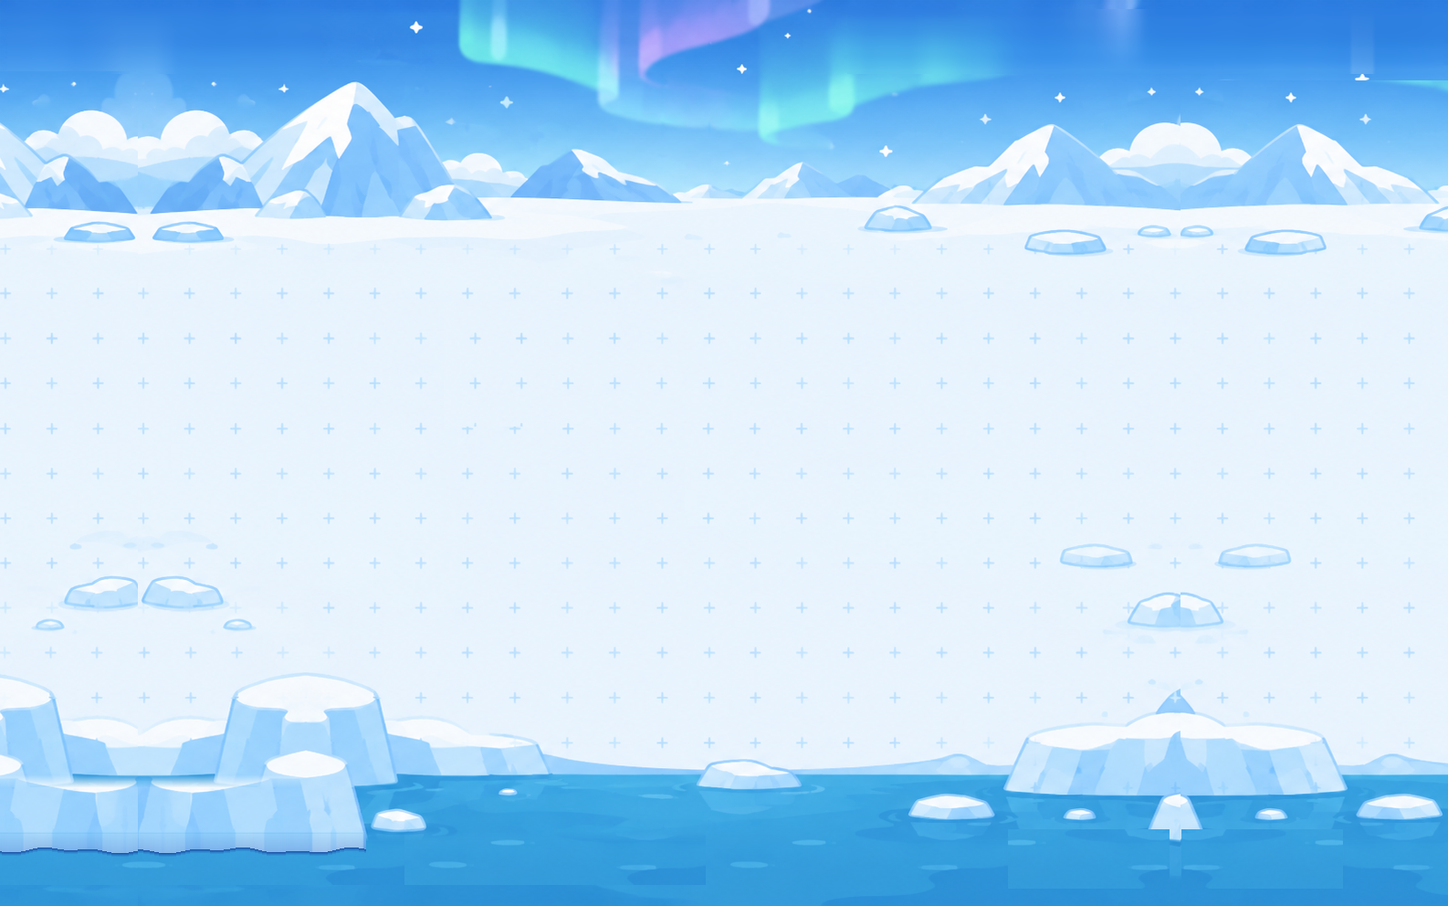
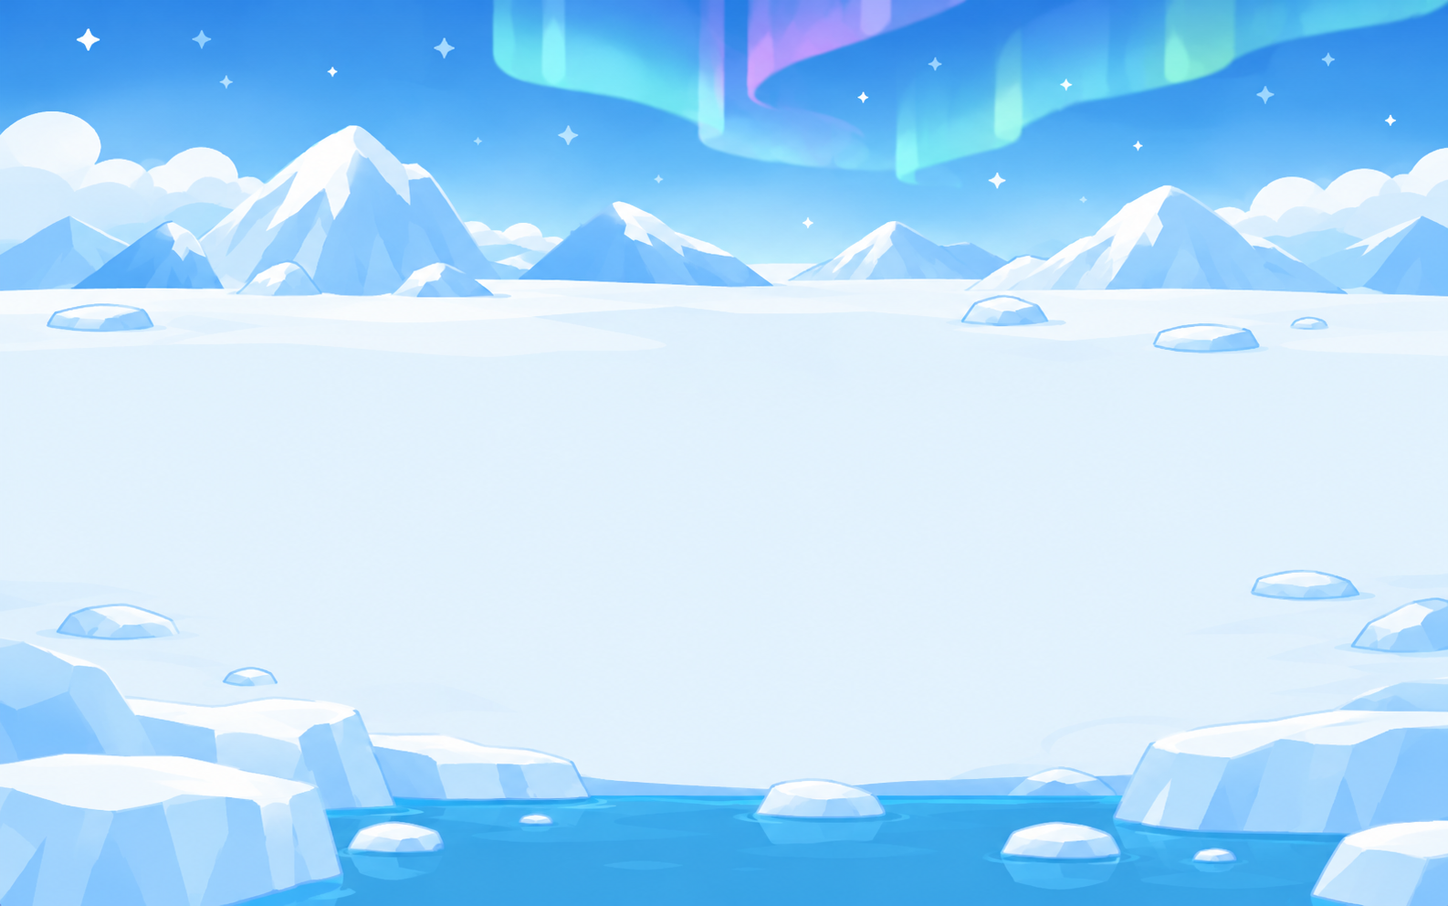
feat(T0.18): resizable side panel, new idle card art, and a snowfield-only grid in simulation
- Drag the handle between the canvas and the right panel to set its width (270-560px).
  Double-click resets it, arrow keys/Home/End adjust it, and the width is remembered.
- Replace the idle card art with the penguin and speech bubble picture and drop the
  "관제 준비 완료!" title; the bubble text becomes the image alt.
- Use the grid-free original for the simulation background and show the realtime dot
  grid only on the flat snowfield through a mask that follows the background's cover fit.

diff --git a/apps/web/src/styles/editor.css b/apps/web/src/styles/editor.css
@@ -19,8 +19,15 @@ button { font: inherit; cursor: pointer; }
 /* 시뮬레이션 모드 배경 (T0.17): 오로라 그림을 창 전체에 비율대로 채운다. 상단 막대는 반투명이라 그림이 비친다 */
 .app.mode-simulation { background: #3B7BE0 url(/bg-sim-aurora.png) center bottom / cover no-repeat; }
 .app.mode-simulation .topbar { background: linear-gradient(180deg, #0B3C8C59, #0B3C8C14); text-shadow: 0 1px 2px #0B2A5C33; }
-/* 그림에 ＋ 격자가 들어 있어 시뮬레이션에서는 캔버스의 점 격자를 끈다 */
+/* 캔버스의 점 격자 대신 아래 눈밭 격자를 쓴다 */
 .app.mode-simulation .canvas { background-color: transparent; background-image: none; }
+/* 시뮬레이션 격자 (T0.18): 실시간과 같은 점 격자를 평평한 눈밭에만 보인다. 하늘, 산, 바다, 얼음 덩어리에는 없다.
+   눈밭 마스크(bg-sim-snow-mask.png)는 배경 그림과 크기가 같고 같은 방식(cover, 아래 가운데)으로 맞춰서 창 크기가 바뀌어도 눈밭을 따라간다.
+   점은 캔버스 왼쪽 위(왼쪽 14 + 장비 목록 112 + 틈 14, 위쪽 막대 64 + 6)에서 시작해 실시간과 같은 자리에 찍힌다 */
+.app.mode-simulation { position: relative; isolation: isolate; }
+.app.mode-simulation::before { content: ""; position: absolute; inset: 0; z-index: -1; pointer-events: none;
+  background-image: radial-gradient(circle, #C4DBF7 1.4px, transparent 1.6px); background-size: 24px 24px; background-position: 140px 70px;
+  -webkit-mask: url(/bg-sim-snow-mask.png) center bottom / cover no-repeat; mask: url(/bg-sim-snow-mask.png) center bottom / cover no-repeat; }
 
 /* top bar */
 .topbar { display: flex; align-items: center; gap: 16px; padding: 0 20px; background: linear-gradient(90deg, var(--sky-900), var(--sky-500)); color: #fff; }
@@ -59,7 +66,14 @@ button { font: inherit; cursor: pointer; }
 .speed button.on { background: #fff; color: var(--sky-700); }
 
 /* middle */
-.work { display: grid; grid-template-columns: 112px 1fr 270px; gap: 14px; padding: 6px 14px 14px; min-height: 0; }
+.work { position: relative; display: grid; grid-template-columns: 112px 1fr 270px; gap: 14px; padding: 6px 14px 14px; min-height: 0; }
+/* 오른쪽 패널 폭 조절 손잡이 (T0.18). 캔버스와 패널 사이 틈(14px)의 가운데에 선다. 폭은 app.tsx가 grid-template-columns로 정한다 */
+.side-resize { position: absolute; top: 6px; bottom: 14px; width: 12px; margin-right: 1px; cursor: ew-resize; touch-action: none; z-index: 20; outline: none; }
+.side-resize::after { content: ""; position: absolute; top: 50%; left: 50%; width: 4px; height: 44px; transform: translate(-50%, -50%); border-radius: 2px; background: #0E3A7A2E; transition: background .15s, height .15s; }
+.side-resize:hover::after, .side-resize:focus-visible::after, .side-resize.dragging::after { height: 72px; background: var(--sky-700); }
+.side-resize:focus-visible::after { box-shadow: 0 0 0 3px rgba(143,220,255,.55); }
+.work.side-dragging { cursor: ew-resize; user-select: none; }
+.work.side-dragging .canvas, .work.side-dragging .inspector { pointer-events: none; }
 /* 좌우 패널은 떠 있는 카드 (T0.17) */
 .palette { background: #FFFFFFEB; border: 1px solid #FFFFFFB3; border-radius: 18px; box-shadow: 0 8px 26px #0E3A7A1F; backdrop-filter: blur(6px); padding: 16px 12px; display: flex; flex-direction: column; gap: 10px; }
 .palette h4 { font-size: 12px; color: var(--navy-60); font-weight: 600; margin-top: 4px; }
@@ -198,8 +212,7 @@ button { font: inherit; cursor: pointer; }
 .inspector-idle { padding: 14px 16px 18px; text-align: center; }
 .inspector-idle .idle-art { border-radius: 14px; overflow: hidden; background: #EAF3FF; }
 .inspector-idle .idle-art img { display: block; width: 100%; height: auto; }
-.inspector-idle .idle-title { margin: 16px 0 8px; font-size: 19px; font-weight: 800; color: var(--navy); }
-.inspector-idle .idle-text { font-size: 12.5px; line-height: 1.6; color: var(--navy-60); }
+.inspector-idle .idle-text { margin-top: 14px; font-size: 12.5px; line-height: 1.6; color: var(--navy-60); }
 .inspector-idle .idle-stats { margin-top: 18px; padding-top: 14px; border-top: 1px solid var(--line); display: grid; gap: 12px; text-align: left; }
 .inspector-idle .idle-stats div { display: flex; align-items: center; justify-content: space-between; font-size: 13px; }
 .inspector-idle .idle-stats dt { color: var(--navy-60); }

diff --git a/apps/web/src/components/side-resize.tsx b/apps/web/src/components/side-resize.tsx
@@ -1,0 +1,102 @@
+// 오른쪽 패널 폭 조절 (T0.18). 캔버스와 패널 사이의 손잡이를 끌면 폭이 바뀌고, 두 번 누르면 처음 폭으로 돌아간다.
+// 정한 폭은 브라우저에 기억해 새로고침해도 그대로다. 화면만의 상태라 Document에는 넣지 않는다.
+
+import { useState } from "react";
+import type { KeyboardEvent, PointerEvent } from "react";
+
+import { browserStorage } from "../mode";
+
+export const SIDE_DEFAULT = 270;
+export const SIDE_MIN = 270;
+export const SIDE_MAX = 560;
+export const SIDE_STORAGE_KEY = "ping9.sideWidth";
+
+type WidthStorage = Pick<Storage, "getItem" | "setItem">;
+
+/** 정할 수 있는 폭 안으로 맞추고 정수로 반올림한다 */
+export function clampSideWidth(width: number): number {
+  return Math.round(Math.min(SIDE_MAX, Math.max(SIDE_MIN, width)));
+}
+
+/** 기억한 폭. 값이 없거나 숫자가 아니거나 읽지 못하면 처음 폭 */
+export function readSideWidth(storage: WidthStorage | undefined): number {
+  try {
+    const saved = storage?.getItem(SIDE_STORAGE_KEY);
+    const width = saved === null || saved === undefined ? Number.NaN : Number(saved);
+    return Number.isFinite(width) ? clampSideWidth(width) : SIDE_DEFAULT;
+  } catch {
+    return SIDE_DEFAULT;
+  }
+}
+
+/** 정한 폭을 기억한다. 저장하지 못해도(사생활 보호 모드, 용량) 폭은 그대로 바뀐다 */
+export function writeSideWidth(storage: WidthStorage | undefined, width: number): void {
+  try {
+    storage?.setItem(SIDE_STORAGE_KEY, String(width));
+  } catch {
+    // 기억하지 못할 뿐이다
+  }
+}
+
+/** 키 하나로 바뀌는 폭. 그 키가 폭 조절 키가 아니면 undefined */
+export function keyedSideWidth(width: number, key: string, shift: boolean): number | undefined {
+  const step = shift ? 40 : 10;
+  switch (key) {
+    case "ArrowLeft": return clampSideWidth(width + step);
+    case "ArrowRight": return clampSideWidth(width - step);
+    case "Home": return SIDE_MAX;
+    case "End": return SIDE_MIN;
+    default: return undefined;
+  }
+}
+
+/** 패널 폭과 그 폭을 바꾸는 손잡이 */
+export function useSideWidth() {
+  const [width, setWidth] = useState(() => readSideWidth(browserStorage()));
+  const [dragging, setDragging] = useState(false);
+
+  const commit = (next: number) => {
+    const value = clampSideWidth(next);
+    setWidth(value);
+    writeSideWidth(browserStorage(), value);
+  };
+
+  const onPointerDown = (event: PointerEvent<HTMLDivElement>) => {
+    if (event.button !== 0) return;
+    event.preventDefault();
+    const handle = event.currentTarget;
+    handle.setPointerCapture(event.pointerId);
+    const startX = event.clientX;
+    const startWidth = width;
+    setDragging(true);
+    // 패널은 오른쪽에 있어 왼쪽으로 끌수록 넓어진다
+    const move = (moveEvent: globalThis.PointerEvent) => setWidth(clampSideWidth(startWidth + startX - moveEvent.clientX));
+    const up = (upEvent: globalThis.PointerEvent) => {
+      handle.removeEventListener("pointermove", move);
+      handle.removeEventListener("pointerup", up);
+      handle.removeEventListener("pointercancel", up);
+      setDragging(false);
+      commit(startWidth + startX - upEvent.clientX);
+    };
+    handle.addEventListener("pointermove", move);
+    handle.addEventListener("pointerup", up);
+    handle.addEventListener("pointercancel", up);
+  };
+
+  const onKeyDown = (event: KeyboardEvent<HTMLDivElement>) => {
+    const next = keyedSideWidth(width, event.key, event.shiftKey);
+    if (next === undefined) return;
+    event.preventDefault();
+    commit(next);
+  };
+
+  const handle = (
+    <div className={`side-resize${dragging ? " dragging" : ""}`} role="separator" aria-orientation="vertical"
+      aria-label="오른쪽 패널 폭 (두 번 누르면 처음 폭)" aria-valuemin={SIDE_MIN} aria-valuemax={SIDE_MAX} aria-valuenow={width}
+      tabIndex={0} title="끌어서 폭 조절 · 두 번 누르면 처음 폭"
+      style={{ right: `${14 + width}px` }}
+      onPointerDown={onPointerDown} onDoubleClick={() => commit(SIDE_DEFAULT)} onKeyDown={onKeyDown} />
+  );
+
+  return { width, dragging, handle };
+}

diff --git a/apps/web/src/components/side-resize.test.ts b/apps/web/src/components/side-resize.test.ts
@@ -1,0 +1,71 @@
+// T0.18: 오른쪽 패널 폭 조절
+import { describe, expect, test } from "vitest";
+
+import { SIDE_DEFAULT, SIDE_MAX, SIDE_MIN, SIDE_STORAGE_KEY, clampSideWidth, keyedSideWidth, readSideWidth, writeSideWidth } from "./side-resize";
+
+function memoryStorage(initial: Record<string, string> = {}) {
+  const values = new Map(Object.entries(initial));
+  return {
+    values,
+    getItem: (key: string) => values.get(key) ?? null,
+    setItem: (key: string, value: string) => void values.set(key, value),
+  };
+}
+
+const broken = {
+  getItem: () => { throw new Error("blocked"); },
+  setItem: () => { throw new Error("quota"); },
+};
+
+describe("clampSideWidth", () => {
+  test("270 ~ 560 안으로 맞추고 정수로", () => {
+    expect([SIDE_DEFAULT, SIDE_MIN, SIDE_MAX]).toEqual([270, 270, 560]);
+    expect(clampSideWidth(100)).toBe(270);
+    expect(clampSideWidth(900)).toBe(560);
+    expect(clampSideWidth(400.6)).toBe(401);
+  });
+});
+
+describe("readSideWidth", () => {
+  test("기억한 값이 없거나 읽지 못하면 처음 폭", () => {
+    expect(readSideWidth(memoryStorage())).toBe(270);
+    expect(readSideWidth(undefined)).toBe(270);
+    expect(readSideWidth(broken)).toBe(270);
+  });
+
+  test("기억한 폭을 읽고, 범위 밖이면 맞춘다", () => {
+    expect(readSideWidth(memoryStorage({ [SIDE_STORAGE_KEY]: "420" }))).toBe(420);
+    expect(readSideWidth(memoryStorage({ [SIDE_STORAGE_KEY]: "9999" }))).toBe(560);
+    expect(readSideWidth(memoryStorage({ [SIDE_STORAGE_KEY]: "0" }))).toBe(270);
+  });
+
+  test("숫자가 아니면 처음 폭", () => {
+    expect(readSideWidth(memoryStorage({ [SIDE_STORAGE_KEY]: "wide" }))).toBe(270);
+    expect(readSideWidth(memoryStorage({ [SIDE_STORAGE_KEY]: "" }))).toBe(270);
+  });
+});
+
+describe("writeSideWidth", () => {
+  test("폭을 기억하고, 저장하지 못해도 오류를 내지 않는다", () => {
+    const storage = memoryStorage();
+    writeSideWidth(storage, 333);
+    expect(storage.values.get(SIDE_STORAGE_KEY)).toBe("333");
+    expect(() => writeSideWidth(broken, 333)).not.toThrow();
+    expect(() => writeSideWidth(undefined, 333)).not.toThrow();
+  });
+});
+
+describe("keyedSideWidth", () => {
+  test("← 넓게, → 좁게. Shift는 40px씩", () => {
+    expect(keyedSideWidth(300, "ArrowLeft", false)).toBe(310);
+    expect(keyedSideWidth(300, "ArrowRight", false)).toBe(290);
+    expect(keyedSideWidth(300, "ArrowLeft", true)).toBe(340);
+    expect(keyedSideWidth(275, "ArrowRight", true)).toBe(270);
+  });
+
+  test("Home은 가장 넓게, End는 가장 좁게, 다른 키는 무시", () => {
+    expect(keyedSideWidth(300, "Home", false)).toBe(560);
+    expect(keyedSideWidth(300, "End", false)).toBe(270);
+    expect(keyedSideWidth(300, "Enter", false)).toBeUndefined();
+  });
+});

diff --git a/apps/web/src/app.tsx b/apps/web/src/app.tsx
@@ -12,6 +12,7 @@ import { isRemoveKey, removeKeyAction } from "./components/canvas-keys";
 import { Inspector } from "./components/inspector";
 import { LinkInspector } from "./components/link-inspector";
 import { Palette } from "./components/palette";
+import { useSideWidth } from "./components/side-resize";
 import type { Replay } from "./components/packet-layer";
 import { TerminalWindow } from "./components/terminal-window";
 import { focusCanvasNode, focusTerminalInput } from "./focus";
@@ -64,6 +65,8 @@ export function App() {
   const [importError, setImportError] = useState<ErrorInfo | null>(null);
   const [cable, setCable] = useState<CableState>(CABLE_OFF);
   const [dragKind, setDragKind] = useState<DeviceKind | null>(null);
+  // 오른쪽 패널 폭. 손잡이로 끌어 바꾼다 (T0.18)
+  const side = useSideWidth();
   // 목록에서 끌어 온 새 장비를 왼쪽 장비 목록에 다시 놓으면 취소된다 (T0.12). 캔버스가 목록의 자리를 보고 상태를 알려 준다
   const paletteRef = useRef<HTMLElement>(null);
   const [dragCancel, setDragCancel] = useState<DragCancelState>("idle");
@@ -456,7 +459,8 @@ export function App() {
     <div className={`app mode-${mode}`}>
       <TopBar name={topologyName} onRename={setTopologyName} onExport={exportTopology} onImport={(file) => void importTopology(file)} mode={mode} onModeChange={changeMode}
         sim={mode === "simulation" ? { clock: clockState, onPause: clock.pause, onResume: clock.resume, onSpeed: clock.setSpeed } : undefined} />
-      <main className="work">
+      <main className={`work${side.dragging ? " side-dragging" : ""}`} style={{ gridTemplateColumns: `112px minmax(0, 1fr) ${side.width}px` }}>
+        {side.handle}
         <Palette deviceCount={document.devices.length} linkCount={document.links.length} cableActive={cable.active}
           onConnect={() => { setCable(cable.active ? CABLE_OFF : CABLE_READY); setConnectionMessage(null); setActionError(null); }}
           onDeviceDragStart={kind => { setDragKind(kind); setCable(CABLE_OFF); setConnectionMessage(null); }}

diff --git a/apps/web/src/components/inspector.tsx b/apps/web/src/components/inspector.tsx
@@ -54,10 +54,9 @@ export function Inspector({
 
   if (device === undefined || view === undefined) {
     return (
-      // 아무것도 고르지 않았을 때의 카드 (T0.17)
+      // 아무것도 고르지 않았을 때의 카드 (T0.17). 그림의 말풍선이 제목 역할을 하고, 글자가 그림 안에 있어 alt로 같은 문장을 준다 (T0.18)
       <aside className="inspector inspector-idle">
-        <div className="idle-art"><img src={panelPenguin} alt="" /></div>
-        <h3 className="idle-title">관제 준비 완료!</h3>
+        <div className="idle-art"><img src={panelPenguin} alt="네트워크 탐험을 시작해 볼까요?" /></div>
         <p className="idle-text">장비를 선택하면 네트워크 상태와<br />상세 정보를 확인할 수 있어요.</p>
         <dl className="idle-stats">
           <div><dt>연결된 장비</dt><dd><b>{document.devices.length}</b> / {LIMITS.maxDevices}</dd></div>

diff --git a/apps/web/src/components/inspector.test.tsx b/apps/web/src/components/inspector.test.tsx
@@ -99,12 +99,14 @@ describe("PC", () => {
   });
 });
 
-describe("선택이 없을 때 (T0.17 빈 카드)", () => {
+describe("선택이 없을 때 (T0.17 빈 카드, T0.18 그림)", () => {
   test.each([null, "nope"])("deviceId가 %j면 빈 카드만 나온다", (deviceId) => {
     const html = render(deviceId);
 
     expect(html).toContain('class="inspector inspector-idle"');
-    expect(html).toContain("관제 준비 완료!");
+    // 제목은 그림의 말풍선이 대신한다 (T0.18)
+    expect(html).toContain('alt="네트워크 탐험을 시작해 볼까요?"');
+    expect(html).not.toContain("관제 준비 완료!");
     expect(html).toContain("장비를 선택하면 네트워크 상태와");
     expect(html).not.toContain("터미널 열기");
   });

diff --git a/docs/task-logs/T0.18-panel-resize-and-sim-grid.md b/docs/task-logs/T0.18-panel-resize-and-sim-grid.md
@@ -1,0 +1,99 @@
+# T0.18 오른쪽 패널 폭 조절, 빈 카드 그림 교체, 시뮬레이션 배경과 눈밭 격자
+
+| 항목 | 내용 |
+|---|---|
+| Task | `T0.18` (계획에 없는 새 ID. T0.17 화면의 후속) |
+| Story | 계획 밖 |
+| 영역 | 화면 |
+| 담당 | yysong1249 |
+| 기간 | 2026-11-12 |
+| 브랜치 / PR | `feat/T0.18-panel-resize-and-sim-grid` / [PR #59](https://github.com/TL-cg11/PING9/pull/59) (`main` 위) |
+| 상태 | 구현·검증 완료, 팀원 검토 대기 |
+
+## 1. 목표와 완료 기준
+
+디자인 사본(5180)에서 사용자가 정한 화면을 저장소에 옮긴다. 시안은 `시안-패널그림교체.png`(B안), `시안-시뮬레이션배경-격자.png`(B안).
+
+- [x] 캔버스와 오른쪽 패널 사이의 손잡이를 끌어 패널 폭을 270 ~ 560px로 바꾼다. 캔버스는 그만큼 줄고 늘어난다
+- [x] 손잡이를 두 번 누르면 처음 폭(270px). 키보드로도 바꾼다 (←/→ 10px, Shift 40px, Home 가장 넓게, End 가장 좁게)
+- [x] 정한 폭은 브라우저에 기억해 새로고침해도 그대로. 저장하지 못해도 폭은 바뀐다
+- [x] 빈 카드 그림을 펭귄과 말풍선("네트워크 탐험을 시작해 볼까요?") 그림으로 바꾸고 "관제 준비 완료!" 제목을 뺀다. 말풍선 문장은 그림의 `alt`로 준다
+- [x] 시뮬레이션 배경을 ＋ 격자가 없는 원본 그림으로 바꾼다
+- [x] 시뮬레이션에서도 실시간과 같은 점 격자(24px 간격, 점 1.4px, `#C4DBF7`)를 쓰되, 평평한 눈밭에만 보인다. 하늘, 산, 바다, 얼음 덩어리에는 없다
+- [x] 실시간 모드의 배경과 격자는 그대로
+- [x] 공통 완료 조건: lint, 타입 검사, 단위 테스트, 빌드 (4절). 리뷰는 PR에서
+
+## 2. 진행 방식
+
+1. 5180에서 시안을 고쳐 가며 사용자가 정했다 (2026-11-12).
+2. 빈 카드 그림은 사용자가 준 원본(1536×1024)에서 펭귄과 말풍선이 들어가는 사각형(가로 150 ~ 1500, 세로 110 ~ 990)을 줄이지 않고 잘랐다(1350×880). 처음에 720px로 줄였더니 넓힌 패널과 레티나 화면에서 흐려 보여서 원래 크기로 바꿨다.
+3. 눈밭 마스크는 배경 그림과 같은 크기(1586×992)의 흑백 알파 그림이다. 색(채도)으로 바다를 자동 판별해 봤지만 눈밭 위 얼음의 그림자까지 바다로 잡혀 경계가 들쭉날쭉했다. 그래서 지평선과 얼음 덩어리·바다 윗선을 따라 다각형을 손으로 정하고 10px 흐리게 했다.
+4. 격자는 `.app`의 `::before` 층에 그리고 마스크를 배경과 같은 방식(`cover`, 아래 가운데)으로 맞췄다. 그래서 창 크기가 바뀌어도 마스크가 그림의 눈밭 자리를 따라간다.
+5. 패널 폭은 `app.tsx`가 `.work`의 `grid-template-columns`로 정한다. 손잡이는 `.work` 안에 절대 위치로 두어 패널 컴포넌트는 건드리지 않았다.
+6. `pnpm check`를 돌리고, `vite preview`로 빌드를 띄워 헤드리스 Chrome으로 확인했다 (4절).
+
+### 주요 결정
+
+| 결정 | 이유 | 버린 대안 |
+|---|---|---|
+| 격자를 눈밭에만 | 하늘과 바다 위의 점이 그림을 해친다는 사용자 결정 | 격자 없음(A안), 캔버스 전체에 격자 |
+| 마스크 경계는 손으로 정한 다각형 | 색 판별은 얼음 그림자를 바다로 잡는다 | 채도 기준 자동 판별 |
+| 격자를 캔버스가 아니라 `.app` 층에 | 마스크를 배경 그림과 같은 기준(창 전체)으로 맞춰야 한다. 점의 시작은 캔버스 왼쪽 위(140, 70)로 맞춰 실시간과 같은 자리에 찍힌다 | 캔버스 배경에 격자 (마스크가 그림과 어긋남) |
+| 폭 범위 270 ~ 560px | 270은 지금 폭. 그보다 넓으면 캔버스가 너무 좁아진다 | 제한 없음 |
+| 빈 카드 제목을 뺀다 | 말풍선이 이미 인사를 해서 인사가 두 번 나온다 (시안 B안) | 제목 유지(A안) |
+
+## 3. 변경 내용
+
+| 파일 | 변경 |
+|---|---|
+| `apps/web/src/components/side-resize.tsx` | 새 파일. 폭 맞추기·읽기·기억하기·키 처리 함수와 `useSideWidth` 훅(손잡이 포함) |
+| `apps/web/src/components/side-resize.test.ts` | 새 파일. 폭 범위, 기억한 값 읽기(없음·범위 밖·숫자 아님·읽기 실패), 기억하기, 키 |
+| `apps/web/src/app.tsx` | 패널 폭을 `.work`의 열 폭으로, 손잡이 붙이기 |
+| `apps/web/src/app.test.tsx` | 손잡이와 처음 폭 270px |
+| `apps/web/src/components/inspector.tsx` | 빈 카드의 제목을 빼고 그림에 `alt` |
+| `apps/web/src/components/inspector.test.tsx` | 빈 카드에 `alt` 문장이 있고 "관제 준비 완료!"가 없음 |
+| `apps/web/src/assets/panel-penguin.png` | 그림 교체 (236×250 → 1350×880, 1.7MB) |
+| `apps/web/public/bg-sim-aurora.png` | ＋ 격자가 없는 원본으로 교체 (1586×992, 1.3MB) |
+| `apps/web/public/bg-sim-snow-mask.png` | 새 파일. 눈밭 마스크 (1586×992, 75KB) |
+| `apps/web/src/styles/editor.css` | 손잡이, 시뮬레이션 눈밭 격자, 빈 카드 제목 스타일 삭제 |
+
+## 4. 결과와 검증
+
+```text
+$ pnpm check
+packages/shared test:       Tests  370 passed (370)
+apps/api test:       Tests  2 passed (2)
+packages/engine test:       Tests  1614 passed (1614)
+apps/web test:       Tests  507 passed (507)
+apps/web build: ✓ built in 147ms
+exit=0
+
+$ pnpm check:secrets
+비밀값 검사 통과: 파일 703개
+```
+
+`vite preview`(빌드 결과)를 헤드리스 Chrome으로 열어 확인했다.
+
+- 1440×860, 1920×1080 두 크기에서 시뮬레이션 격자가 눈밭에만 보이고, 캔버스 왼쪽 위가 (140, 70)으로 점의 시작과 같다.
+- 손잡이가 있고, 빈 카드 그림의 `alt`가 "네트워크 탐험을 시작해 볼까요?", 제목이 없다.
+- 손잡이 끌기(5180에서): 왼쪽으로 150px 끌면 패널 420px, 캔버스 1002 → 852px. 끝까지 끌면 560px에서 멈춤. 새로고침 뒤에도 560px. 두 번 누르면 270px. ← 키 한 번에 280px.
+- 콘솔 오류 없음.
+
+## 5. 추정과 실제
+
+| 추정 (인일) | 실제 (인일) | 차이의 이유 |
+|---|---|---|
+| 없음 (계획에 없는 Task) | 0.5 | 마스크 경계를 자동 판별하다 손으로 정하는 데 시간이 들었다 |
+
+## 6. 계획과 달라진 점
+
+- 계획에 없는 Task다. 화면 디자인 변경이라 팀 확인이 필요하다.
+- 시뮬레이션의 격자를 T0.17에서는 껐는데(그림에 ＋ 격자가 있었음) 이번에 그림을 격자 없는 원본으로 바꾸고 실시간과 같은 점 격자를 눈밭에만 다시 켰다.
+
+## 7. 남은 일과 다음 Task에 전할 것
+
+- 배경 그림을 다시 바꾸면 눈밭 마스크도 새로 만들어야 한다. 마스크는 지금 그림의 눈밭 모양에 맞춘 것이다.
+- 장비 목록 폭(112px)이나 위쪽 막대 높이(64px)를 바꾸면 격자 시작점(`background-position: 140px 70px`)도 같이 고친다.
+- 그림 두 장(빈 카드 1.7MB, 배경 1.3MB)이 PNG라 크다. 화질을 거의 그대로 두고 줄이려면 WebP로 바꾸는 방법이 있다.
+- 배경 원본이 1586px 폭이라 1920px 같은 큰 화면에서는 조금 흐리다. 더 선명하게 하려면 2,000 ~ 2,600px 폭 원본이 필요하다.
+- 이벤트 목록(T1.9)이 오른쪽 패널에 들어가면 같은 폭을 쓴다.

diff --git a/docs/task-logs/README.md b/docs/task-logs/README.md
@@ -96,3 +96,4 @@ Task 하나를 진행할 때마다 이 폴더에 기록 문서를 **새로** 만
 | T0.16 토폴로지 이름 고치기 (계획에 없는 새 ID) | [T0.16-topology-name.md](T0.16-topology-name.md) | 화면 | yysong1249 | 검토 대기 ([PR #56](https://github.com/TL-cg11/PING9/pull/56), PR #55 위). 요구사항 추가라 팀 확인 필요 |
 | T0.17 떠 있는 좌우 패널, 빈 속성 패널 카드, 시뮬레이션 배경 (계획에 없는 새 ID) | [T0.17-panel-and-background.md](T0.17-panel-and-background.md) | 화면 | yysong1249 | 검토 대기 ([PR #57](https://github.com/TL-cg11/PING9/pull/57)). 디자인 변경이라 팀 확인 필요 |
 | T0.14 버그 수정: 꺼 둔 PC 포트가 IP 설정에 켜짐, 포트를 껐다 켜도 RIP 경로가 그대로임 | [T0.14-pc-port-admin-fix.md](T0.14-pc-port-admin-fix.md) | 엔진 | SDY | 병합됨 ([PR #58](https://github.com/TL-cg11/PING9/pull/58), 팀원 검토 없이). T0.14(yysong1249)의 수정이라 담당자 확인 필요 |
+| T0.18 오른쪽 패널 폭 조절, 빈 카드 그림 교체, 시뮬레이션 배경과 눈밭 격자 (계획에 없는 새 ID) | [T0.18-panel-resize-and-sim-grid.md](T0.18-panel-resize-and-sim-grid.md) | 화면 | yysong1249 | 검토 대기 ([PR #59](https://github.com/TL-cg11/PING9/pull/59)). 디자인 변경이라 팀 확인 필요 |
